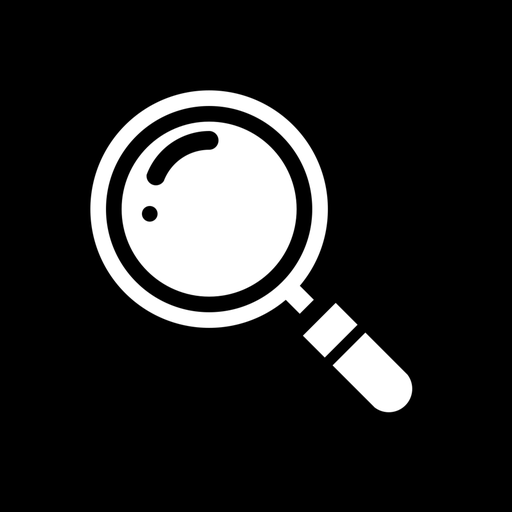
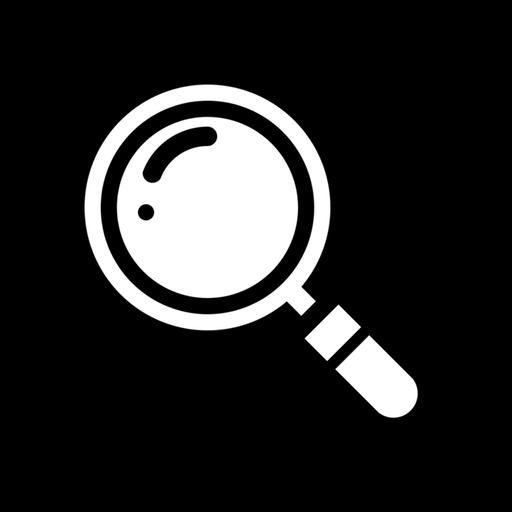
fix(branding): use adaptive launcher artwork for listings

diff --git a/scripts/prepare_fdroid.py b/scripts/prepare_fdroid.py
@@ -8,6 +8,7 @@ import argparse
 from pathlib import Path
 import re
 import shutil
+import xml.etree.ElementTree as ET
 
 from PIL import Image
 
@@ -25,8 +26,17 @@ def main():
         raise SystemExit("Expected version: x.y.z+number in pubspec.yaml")
     name, code = version.group(1), int(version.group(2))
 
-    with Image.open(ROOT / "assets/icons/launcher.png") as source:
-        icon = source.convert("RGBA").resize((512, 512), Image.Resampling.LANCZOS)
+    colors = ET.parse(ROOT / "android/app/src/main/res/values/colors.xml")
+    background = colors.findtext("./color[@name='ic_launcher_background']")
+    with Image.open(ROOT / "assets/icons/launcher_foreground.png") as source:
+        # Android displays the central 72 dp of the 108 dp adaptive layer.
+        width, height = source.size
+        viewport = (width / 6, height / 6, width * 5 / 6, height * 5 / 6)
+        foreground = source.convert("RGBA").resize(
+            (512, 512), Image.Resampling.LANCZOS, box=viewport
+        )
+    icon = Image.new("RGBA", foreground.size, background)
+    icon.alpha_composite(foreground)
     screenshots = sorted((ROOT / "store/screenshots/ar/phone").glob("*.png"))
     if not screenshots:
         raise SystemExit("No Arabic store screenshots found")

diff --git a/README.md b/README.md
@@ -1,6 +1,6 @@
 <div dir="rtl">
 <div align="center">
-<img src="assets/icons/logo_readme.svg" width="200" alt="Hadith Searcher">
+<img src="fastlane/metadata/android/en-US/images/icon.png" width="200" alt="Hadith Searcher">
 
 # Hadith Searcher
 

diff --git a/README.en.md b/README.en.md
@@ -1,5 +1,5 @@
 <div align="center">
-<img src="assets/icons/logo_readme.svg" width="200" alt="Hadith Searcher">
+<img src="fastlane/metadata/android/en-US/images/icon.png" width="200" alt="Hadith Searcher">
 
 # Hadith Searcher
 
